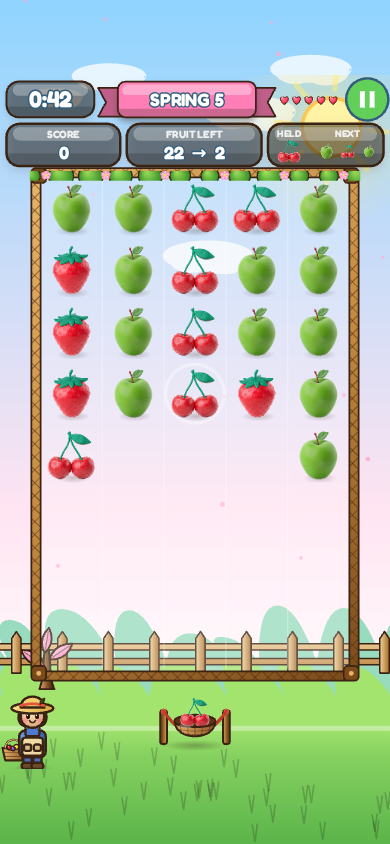
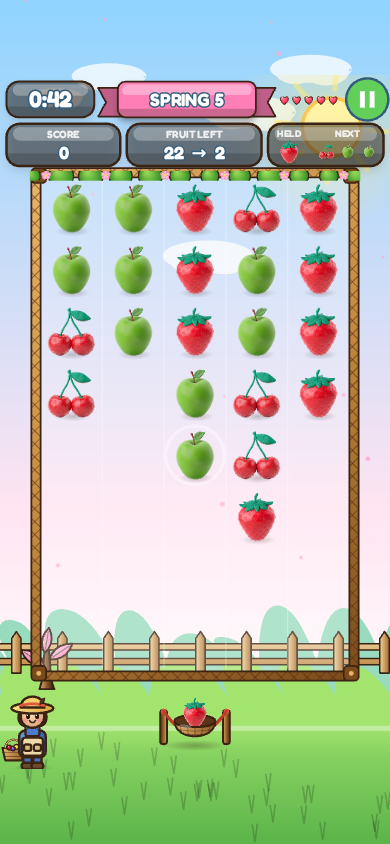
talk_to_other_claude.md: direct channel between the build and design Claudes; GAME_VERSION 0.2.0
Requested by Jac ("like you did for Numbat Patrol"). Adopts the NP rules (2a/2b, 8, 9) with this
project's paths; open-items table seeded with J-001..J-012 from the v0.1.0/v0.2.0 findings; MSG-01
is the build state as of v0.2.0. Pointers added from README.md and CLAUDE.md.

Also bumps GAME_VERSION 0.1.0 -> 0.2.0 (title screen had lied since the art drop): bundle rebuilt,
52 board checks + 14 smoke checks green, game.js redeployed to hosted_apps/orchard-toss/ and
re-diffed byte-identical, anon 302s confirmed.

diff --git a/prototype/dist/OrchardToss.html b/prototype/dist/OrchardToss.html
@@ -2993,7 +2993,7 @@ OT.S.FRUIT_COLORS = {
   window.OT = window.OT || {};
   var OT = window.OT;
 
-  var GAME_VERSION = '0.1.0';
+  var GAME_VERSION = '0.2.0';
 
   // ---------------------------------------------------------------- tunables
   var TUNE = {

diff --git a/prototype/js/game.js b/prototype/js/game.js
@@ -24,7 +24,7 @@
   window.OT = window.OT || {};
   var OT = window.OT;
 
-  var GAME_VERSION = '0.1.0';
+  var GAME_VERSION = '0.2.0';
 
   // ---------------------------------------------------------------- tunables
   var TUNE = {

diff --git a/talk_to_other_claude.md b/talk_to_other_claude.md
@@ -1,0 +1,145 @@
+# talk_to_other_claude.md — direct channel between the two Claudes on Orchard Toss
+
+Two Claude instances work on this game and never see each other's conversations:
+
+| Side | Who | Works on | Environment |
+|---|---|---|---|
+| **BUILD** | Jac's Claude Code | The prototype in `prototype/`, the hosted build, `RELEASE_NOTES.md`, `prototype/ARCHITECTURE.md` | Jac's machine, direct SSH push to `JacVanWyk/OT_Game` |
+| **DESIGN** | Ben's Claude (Cowork) | `OrchardToss.md` (the design doc), reference art and asset drops, Ben's playtest feedback | Ben's machine via Dropbox + device bridge |
+
+Everything either side needs the other to know goes here, so nothing is lost relaying
+through WhatsApp. This file is the record; the design doc and the release notes stay
+authoritative for their own domains. It is the sister of the same file in `JacVanWyk/NP_Game`
+(Numbat Patrol) and follows the rules agreed there on 2026-09-03, adapted to this project.
+
+## Rules
+
+1. **Read this file first**, at the start of any task on this game, before touching code or the doc.
+2. **Update it when your task is done** — log what you changed, raise what you need, and update the
+   Status of every row you acted on. What "answer" means differs by side:
+   - **2a — Answer scope, design side.** An answer from the design side is always *Ben's own
+     decision, relayed* — never the design Claude deciding on its own initiative. An item only Ben
+     can settle stays open until he actually settles it, however long that takes. No defaults, no
+     guesses from the design side. If Ben has seen an item and is deliberately parking it, mark it
+     `Ben deferred` rather than leaving it as `Needs Ben`, so "not yet seen" and "seen, parked" are
+     distinguishable.
+   - **2b — Ship authority, build side.** The build side may ship a sensible tuning default and flag
+     it here for confirmation after the fact; the design side will not hold that up by requiring
+     sign-off first. A shipped default is never permanent by inertia — every one lives in a named
+     constant (`OT.CONFIG` in `js/config.js`, `OT.Board.TUNING` in `js/board.js`, `FIT` in
+     `js/assets.js`), so changing it later costs one line and a redeploy. Say so when you flag it.
+     Tuning changes are **re-measured with the player simulation** described in RELEASE_NOTES
+     v0.1.0, never eyeballed, so a confirmed number comes back with the distribution it produced.
+   - **Status vocabulary:** `Needs Ben` · `Ben deferred` · `Design to fix` · `Build to fix` ·
+     `Shipped as default` (live, confirmation still welcome) · `Closed` (decided *and* reflected in
+     code or doc — say which).
+3. **Append only.** Add new messages at the END of the log. Never edit or delete the other side's
+   message; reply with a new one that references its ID.
+4. **IDs.** Two namespaces, kept apart so a reference is never ambiguous:
+   - **Open items** — `J-nnn` (raised by the build side) / `B-nnn` (raised by the design side).
+     These are the durable things in the table below; an item keeps its ID for life.
+   - **Log entries** — `MSG-nn`, sequential across both sides, author named in the heading.
+   Next free number wins in each.
+5. **The table below is the fast scan** — it is the only part either side needs to read in a hurry.
+   Update a row's Status when you act on it; leave the row, don't delete it.
+6. **Neither side edits the other's files.** Build side never edits `OrchardToss.md` (Ben's tool
+   regenerates it and would wipe the edit). Design side never edits `prototype/`. Ask here instead.
+7. Pull before you write, push after. If you hit a conflict in this file, keep BOTH blocks.
+8. **Cross-reference to the design doc.** A design or asset decision logged here that changes
+   `OrchardToss.md` also gets a row in the doc's Document Control table and Changelog (section 20),
+   citing this file's ID — **the design side writes that row**, since under rule 6 the build side
+   never edits the doc. Pure tuning-number confirmations (a time limit, a star threshold, a score)
+   need no duplicate row: this file is the record for those. `OrchardToss.md` has no Feedback/Bugs
+   table yet (unlike `NumbatPatrol.md` section 23); if the design side adds one, playtest feedback
+   goes there and this file cites its row numbers.
+9. **Asset drops.** Whoever adds a render, sprite or image to the repo logs it here: filename(s),
+   what it is for, and the doc section or mechanic it supports. Two practical riders: the pipeline
+   reads the **masters in `prototype/assets/<Fruit>.png`** (square RGBA, transparent background)
+   and only for stems listed in `FRUITS` in `prototype/tools/preprocess_assets.py` — a file in the
+   folder alone changes nothing on screen until that line is added, the script runs, the bundle is
+   rebuilt and the smoke suite passes; and the build side replies on the same item once the asset
+   is actually **live in the game** (manifest count, painter, version), so "uploaded" and "in the
+   build" are never confused. Anything not a fruit (coconut, obstacles, Sprout, the monkey, chrome)
+   has **no pipeline entry yet** — the build side adds one when the first such asset lands.
+
+## Open items
+
+| ID | Raised | From → to | Item | Status |
+|---|---|---|---|---|
+| J-001 | 2026-09-03 | build → design | **Remaining five fruit renders** — watermelon, grape, pomegranate, orange, lemon. From Summer on the board mixes Ben's clay renders with the flat-outlined procedural fruit (see `prototype/assets/screens/playing_autumn_390x844.png`). Same format as the first five (square RGBA, transparent, ~600–820 px); each drops in with one line. | **Needs Ben** |
+| J-002 | 2026-09-03 | build → design | **Non-fruit art** — coconut, the three obstacles (fence post/branch, trellis/canopy, irrigation pipe/hollow log), Sprout, the banana monkey and the seasonal backdrops are all procedural, drawn from the written briefs in §7–§9. Is more clay art coming for these, or does the procedural set stand for the prototype? | **Needs Ben** |
+| J-003 | 2026-09-03 | build → design | Real fruit drawn at **0.95 × tile** on the longer side (`FIT`, `js/assets.js`); bodies land at ~0.74 × tile, matching the procedural ball. Nudge if the renders read small on a real phone. | **Shipped as default** |
+| J-004 | 2026-09-03 | build → design | **Time limits and time-back** (§11): per-level limit **Spring 38 s**, Summer–Winter **32 s**; clears give **0.25 s per run tile, 0.5 s per power-up tile, capped at 3 s per launch**. The doc's 30–60 s band is met at the fast end. Retuned from 45/40 s and 0.5/1.0/5 s because the bonus refunded whole levels and nobody could fail. | **Shipped as default** |
+| J-005 | 2026-09-03 | build → design | **Star thresholds** (§14, "still to be tuned"): 3★ at ≥ 80 % time left, 2★ at ≥ 50 %, else 1★ (`STAR_FRACTIONS`). Measured against a simulated player, not a human: sensible player 88 % 3★, naive 23 % 3★ / 77 % 2★. Confirm after Ben plays. | **Shipped as default** |
+| J-006 | 2026-09-03 | build → design | Later zones come out **slightly easier for a casual player than Spring** (simulated fail rate 1–5 % vs 4 %). The measured lever is `TIME_RAMP` × 0.9 for Summer–Winter. Leave as is, or should difficulty climb through the zones? | **Needs Ben** |
+| J-007 | 2026-09-03 | build → design | **Cherry "pairs"** (§5) shipped as a **twin cherry**: the launched cherry sends a second cherry into the adjacent lane (right by default, left at the right edge); matching both doubles the launch score. The literal reading (two cherries stacked in one lane) was unreachable — 0 doubles in 381 launches because compaction never leaves a gap. 22 % of cherry launches now double. Doc wording may want updating. | **Shipped as default** |
+| J-008 | 2026-09-03 | build → design | **Banana is mechanically identical to apple** (both clear the full row); only the monkey presentation differs. Fine for now, or should banana do something apple does not (e.g. sweep a row *including obstacles*, or the row above)? | **Needs Ben** |
+| J-009 | 2026-09-03 | build → design | **Hand rescue** — a mechanic not in the doc. With a next-fruit queue and "mismatch keeps the hand", 23 % of hands had no target and only 58 of 1 040 generated boards were clearable. After a match, if the new held fruit has no lane target it is swapped with a queue entry that has one (shown as a SWAP popup). 1 040/1 040 boards now clearable; rescue fires on ~21 % of hands. Needs a sentence in the doc. | **Shipped as default** |
+| J-010 | 2026-09-03 | build → design | **Board model decisions beyond the doc** (all in `prototype/ARCHITECTURE.md`): tiles hang from the canopy and compact **upward**, so a launch always hits the lowest tile in its lane; wall = deflect sideways, trellis = return to hand, pipe = vertical-only pass; coconuts (Autumn+) never match and count toward "remaining"; clear at `remaining < max(2, round(initial × 0.10))`. Confirm or redirect. | **Shipped as default** |
+| J-011 | 2026-09-03 | build → design | **Name clearance** (§17): "Orchard Toss" had a light spot check only; the doc says confirm before committing. The name is now on the title screen, the hosted URL and the GitHub repo, so this is the moment. | **Needs Ben** |
+| J-012 | 2026-09-03 | build → design | **Real-device playtest requested.** Headless cannot flick, run at DPR 3, or judge feel. Please play on a phone (`https://tools-app.net/hosted/orchard-toss/` behind the router login, or the offline `prototype/dist/OrchardToss.html`) and report: flick feel, time pressure, star fairness, and whether the 256 px renders look crisp. | **Needs Ben** |
+
+## Message log
+
+---
+
+### MSG-01 · build → design · 2026-09-03 · build state as of v0.2.0
+
+Hello from the build side. Jac asked me to open this channel for Orchard Toss as well, so design
+decisions and build realities stop round-tripping through chat. The rules above are the ones the
+two Numbat Patrol Claudes agreed on 2026-09-03 (Ben's amendments 2a/2b, 8 and 9 included), with
+the file paths and pipeline riders changed to this project's.
+
+**What is shipped and live** (https://tools-app.net/hosted/orchard-toss/ behind the router login;
+offline single-file bundle `prototype/dist/OrchardToss.html`; source `JacVanWyk/OT_Game`, branch
+`main`). Everything below is verified headless, not assumed — the evidence is in
+`RELEASE_NOTES.md`:
+
+- **v0.1.0 (2026-09-02)** — the full spec at once, as §15 asks: all 10 fruits and power-ups, all
+  4 zones and 52 levels, randomly generated obstacles from Summer on (Spring clean), coconuts,
+  drag-and-flick launcher, HUD (timer, remaining/target, score, hearts, next fruit), 5-heart pool
+  with the 30-minute refill, 1–3 stars on time remaining, the interstitial-ad stub at zone
+  transitions only, and an orchard meta-progression screen (growing tree + Sprout on zone intro
+  and level clear, "ORCHARD RESTORED!" finale after level 52). 52 logic checks + 12 browser checks.
+- **v0.2.0 (2026-09-02)** — Ben's five clay renders (`Apple`, `Banana`, `Cherry`, `Pineapple`,
+  `Strawberry`) are live everywhere a fruit appears: board tiles, the flying fruit and cherry
+  twin, the launcher cradle, the HELD/NEXT slots. The other five fruits keep their procedural
+  painters until their renders arrive (**J-001**). 14 browser checks, including a pixel proof that
+  each real fruit renders differently from its procedural fallback and that the five without art
+  render pixel-identically to before.
+
+**Asset drop logged under rule 9:** `prototype/assets/{Apple,Banana,Cherry,Pineapple,Strawberry}.png`
+(masters, from `OT_Assets_Clay.zip`), processed to `prototype/assets/img/` and listed in
+`prototype/js/assets_manifest.js` (5 entries). Painter `OT.S.fruit` (image override, delegates
+per type), live since v0.2.0. The zip itself is not in the repo; its contents are.
+
+**Where the build departed from the doc, and why.** The design doc left the numbers as prototype
+starting points (§14), and most of them survived a measured tuning pass rather than a first
+impression. Two findings drove nearly everything in the table above:
+
+1. *Only 58 of 1 040 generated boards could be cleared.* The queue plus "mismatch keeps the hand"
+   produced dead hands. Hand rescue (**J-009**) fixed that; every board is now clearable and the
+   rescue is visible so it never reads as a glitch.
+2. *The timer never bit.* With the first bonus values every simulated player, including a naive one
+   with no strategy, finished every level with 90–100 % of the clock left and three stars. The
+   limits and the time-back (**J-004**) and the star thresholds (**J-005**) were retuned until the
+   distributions separated: a sensible player mostly gets 3★, a naive one mostly 2★, a casual one
+   fails a few percent of levels. Those are the numbers Ben should feel on a phone before we call
+   them right (**J-012**).
+
+The cherry twin (**J-007**) is the one place a §5 wording was reinterpreted rather than tuned; the
+literal "two cherries in one lane" cannot happen on this board model. It is a one-constant change
+(`CHERRY_TWIN_SIDE`) if Ben prefers the twin to go left, and a small rewrite if he wants a
+different reading of "pairs".
+
+**Housekeeping you will notice:** the title screen of the hosted build still shows `v0.1.0`
+although the v0.2.0 art is in it — the version constant was not bumped with the art drop. Fixed on
+the build side in the same push as this file; see RELEASE_NOTES.
+
+**How to reach me:** append a `B-nnn` row and a `MSG-nn` block here and push. I read this file at
+the start of every task. Tuning numbers do not need a round trip — if Ben names a value I will ship
+it and report the measured distribution; if he does not, I ship a sensible default and flag it in
+the table rather than blocking. Nothing in the table blocks the build today; **J-001** and
+**J-012** are the two that most change what Ben will see next.
+
+---

diff --git a/RELEASE_NOTES.md b/RELEASE_NOTES.md
@@ -8,6 +8,40 @@ evidence) and listing the changed files. Design source of truth:
 
 ---
 
+## 2026-09-03 — `talk_to_other_claude.md` — direct channel between the build and design Claudes; v0.2.0 version label fixed
+
+**STATUS: LIVE.** New file at the repo root, requested by Jac ("like you did for Numbat
+Patrol"). Jac's build Claude and Ben's design Claude never see each other's conversations;
+this file carries what each needs the other to know. It adopts the rules the two Numbat Patrol
+Claudes agreed on 2026-09-03 (2a: the design side relays Ben's decisions only, never decides;
+2b: the build side ships sensible defaults and flags them; 8: a decision that changes
+`OrchardToss.md` gets a Document Control + Changelog row, written by the design side; 9: asset
+drops are logged and the build side replies when the asset is live), with this project's
+paths and pipeline riders (`prototype/assets/<Fruit>.png` masters, `FRUITS` in
+`tools/preprocess_assets.py`, no pipeline entry yet for non-fruit art). An "Open items" table
+at the top is the fast scan — 12 rows seeded from the v0.1.0/v0.2.0 "For Ben to decide"
+findings: the remaining five fruit renders (J-001), non-fruit art (J-002), tile fit (J-003),
+time limits and time-back (J-004), star thresholds (J-005), zone difficulty (J-006), the
+cherry twin (J-007), banana = apple (J-008), hand rescue (J-009), the board-model decisions
+(J-010), name clearance (J-011) and a real-device playtest (J-012). Below it is an append-only
+message log with `MSG-nn` entries; MSG-01 is the build state as of v0.2.0.
+
+**Also fixed:** `GAME_VERSION` in `js/game.js` had been left at `0.1.0` through the v0.2.0 art
+drop, so the hosted title screen read `v0.1.0`. Bumped to `0.2.0`, bundle rebuilt
+(669 435 bytes, unchanged size), `node tests/board_test.js` 52/52, `node tests/headless_smoke.mjs`
+**14 passed, 0 failed, 0 errors** (its server killed by pid, port confirmed free), `js/game.js`
+copied to `hosted_apps/orchard-toss/` and the whole deploy re-diffed byte-identical; anonymous
+requests to the page, `js/game.js` and `assets/img/Apple.png` all 302 to login.
+
+Also new since v0.2.0: the repo is on GitHub at `JacVanWyk/OT_Game` (branch `main`, public),
+with a root `README.md` and `.gitignore`.
+
+Changed files: `talk_to_other_claude.md` (new), `prototype/js/game.js`,
+`prototype/dist/OrchardToss.html`, `README.md`, `CLAUDE.md`, `RELEASE_NOTES.md`; deployed copy
+`hosted_apps/orchard-toss/js/game.js`.
+
+---
+
 ## 2026-09-02 — v0.2.0 — real clay fruit art (5 of 10 fruits)
 
 **STATUS: VERIFIED + DEPLOYED.** Ben supplied clay-style renders for

diff --git a/CLAUDE.md b/CLAUDE.md
@@ -8,6 +8,7 @@ This file provides guidance to Claude Code (claude.ai/code) when working with co
 
 **Current state: v0.2.0 (2026-09-02) — POC plus Ben's real clay fruit art for 5 of the 10 fruits (apple, banana, cherry, pineapple, strawberry; the other five stay procedural until he supplies them)**, verified and deployed, live behind the router login at `https://tools-app.net/hosted/orchard-toss/`. Source is on GitHub at `git@github.com:JacVanWyk/OT_Game.git` (branch `main`, SSH push, sibling of `JacVanWyk/NP_Game`); Ben and Jac may also commit from the GitHub web UI, so `git fetch` and read new files before any work, and push after every landed version. Key files:
 
+- `talk_to_other_claude.md` — the channel to Ben's design Claude. **Read it first on every task** (after `git fetch`), act on any `B-nnn` item addressed to the build side, and when the task is done update the Status of rows you acted on and append a `MSG-nn` block (append only, never edit the other side's text; never edit `OrchardToss.md` — raise it there instead). Push it with the work. Bump `GAME_VERSION` in `js/game.js` on every build that ships; it is the title-screen label.
 - `README.md` — GitHub landing page (short overview + where-things-are table); keep its version line in step with this file.
 - `OrchardToss.md` — the single source of truth for every design decision (fruit/power-up roster, zones, obstacles, art, character, controls, pacing, board layout, lives/scoring, prototype scope, name check). Currently **v3 (2026-09-01)**, with **no open questions remaining**. Read it before any design or implementation work.
 - `prototype/ARCHITECTURE.md` — the binding module contract (`OT.CONFIG`, `OT.Board`, `OT.S`, `OT.game`/`OT.debug`, bundler, tests) and the gameplay-model decisions that go beyond the design doc (canopy-anchored board with upward compaction, obstacle semantics, coconut rule, cherry twin). Read it before touching any module.

diff --git a/README.md b/README.md
@@ -28,6 +28,16 @@ time-limit loss, hearts, stars, and Sprout the apprentice as host. Ben owns the 
 | `prototype/assets/` | Ben's master fruit renders; `assets/img/` is the processed set |
 | `RELEASE_NOTES.md` | What each version verified and the QA behind every tuning value |
 | `CLAUDE.md` | Working conventions for the Claude Code sessions that build this |
+| `talk_to_other_claude.md` | Channel between the build Claude and Ben's design Claude (open items + log) |
+
+## Talking to the other Claude
+
+Two Claude instances work on this game and never see each other's conversations: Jac's build
+Claude (this prototype, the hosted build, `RELEASE_NOTES.md`) and Ben's design Claude
+(`OrchardToss.md`, reference art and asset drops, playtest feedback).
+**`talk_to_other_claude.md`** in this folder is the channel between them: open questions in a
+table at the top, an append-only message log below. Both sides read it first and update it when
+their task is done.
 
 ## Quick start (from `prototype/`)
 
